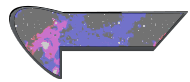
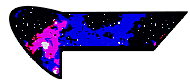
Changement de map

diff --git a/Escape/src/game/EnvironnementFactory.java b/Escape/src/game/EnvironnementFactory.java
@@ -3,6 +3,8 @@ package game;
 import java.util.Random;
 
 import maps.Earth;
+import maps.Moon;
+import maps.Jupiter;
 import maps.Map;
 
 import org.jbox2d.collision.shapes.PolygonShape;
@@ -21,16 +23,18 @@ import hud.Hud;
 
 
 public class EnvironnementFactory {
+	public enum Level{
+		Earth,
+		Moon,
+		Jupiter
+	}
 	
-	/*
-	 * TODO: set the gravity to 0 (set to 10 for test only)
-	 */
-
+	
 	private static final boolean DO_SLEEP = false;
 	
-	public static Environnement WORLD1(World world){
+	private static Environnement Earth(World world){
 		Entities entities = new Entities(world);		
-		EnnemyBehavior ennemyBehavior = new EnnemyBehavior(entities, "script.sir.txt");//= new EnnemyBehavior(entities, "");
+		EnnemyBehavior ennemyBehavior = new EnnemyBehavior(entities, "script.sir.txt");//script de la terre
 		Map map = new Earth();		
 		Hud hud = new Hud();
 		
@@ -41,8 +45,36 @@ public class EnvironnementFactory {
 		return env;
 	}
 	
+	private static Environnement Moon(World world){
+		Entities entities = new Entities(world);		
+		EnnemyBehavior ennemyBehavior = new EnnemyBehavior(entities, "script.sir.txt");//Script de la lune
+		Map map = new Moon();		
+		Hud hud = new Hud();
+		
+		ShipFactory factory = new ShipFactory(entities);
+		Player playerShip = factory.createPlayer();
+		
+		Environnement env = new Environnement(map, playerShip, ennemyBehavior, entities, hud);		
+		return env;
+	}
 	
-	public static Environnement factory(World world){
+	private static Environnement Jupiter(World world){
+		Entities entities = new Entities(world);		
+		EnnemyBehavior ennemyBehavior = new EnnemyBehavior(entities, "script.sir.txt");//Script de la lune
+		Map map = new Jupiter();		
+		Hud hud = new Hud();
+		
+		ShipFactory factory = new ShipFactory(entities);
+		Player playerShip = factory.createPlayer();
+		
+		Environnement env = new Environnement(map, playerShip, ennemyBehavior, entities, hud);		
+		return env;
+	}
+	
+	/*
+	 * Environnement factory principal (celui du main)
+	 */
+	public static Environnement factory(World world, Level level){
 		if(world==null){
 			world = new World(new Vec2(Variables.WORLD_GRAVITY_X, Variables.WORLD_GRAVITY_Y), DO_SLEEP);
 		}
@@ -51,19 +83,22 @@ public class EnvironnementFactory {
 			world.setAllowSleep(DO_SLEEP);
 		}		
 		
-		/*
-		 * TODO: Mettre ICI tout les niveaux du jeu!
-		 * 
-		 * if(lvl1)
-		 * 		return world1()
-		 * ...
-		 *  
-		 */		
-		return WORLD1(world);
+		switch(level){
+		case Earth:
+			return Earth(world);
+		case Moon:
+			return Moon(world);
+		case Jupiter: 
+			return Jupiter(world);
+		}
+		return null;		
 	}
 	
-	public static Environnement factory(){
-		return factory(null);
+	/*
+	 * Environnement factory du test JBox2d
+	 */
+	public static Environnement factory(Level level){
+		return factory(null, level);
 	}
 	
 

diff --git a/Escape/src/maps/Jupiter.java b/Escape/src/maps/Jupiter.java
@@ -1,15 +1,22 @@
 package maps;
 
 import game.Environnement;
+import game.Ressources;
 
 import java.io.IOException;
 
 
 public class Jupiter extends Map{
 
-	public Jupiter() throws IOException {
-		super();
+	public Jupiter() {
+		super(Ressources.getImage("images/maps/jupiter.png"), 0.2f);
 		// TODO Auto-generated constructor stub
+	}
+
+	@Override
+	public void computeMap() {
+		// TODO Auto-generated method stub
+		
 	}
 
 }

diff --git a/Escape/src/maps/Moon.java b/Escape/src/maps/Moon.java
@@ -1,15 +1,23 @@
 package maps;
 
 import game.Environnement;
+import game.Ressources;
 
 import java.io.IOException;
 
 
 public class Moon extends Map{
 
-	public Moon() throws IOException {
-		super();
+	public Moon() {
+		super(Ressources.getImage("images/maps/moon.png"), 0.2f);
 		// TODO Auto-generated constructor stub
+	}
+
+	
+	@Override
+	public void computeMap() {
+		// TODO Auto-generated method stub
+		
 	}
 
 }
